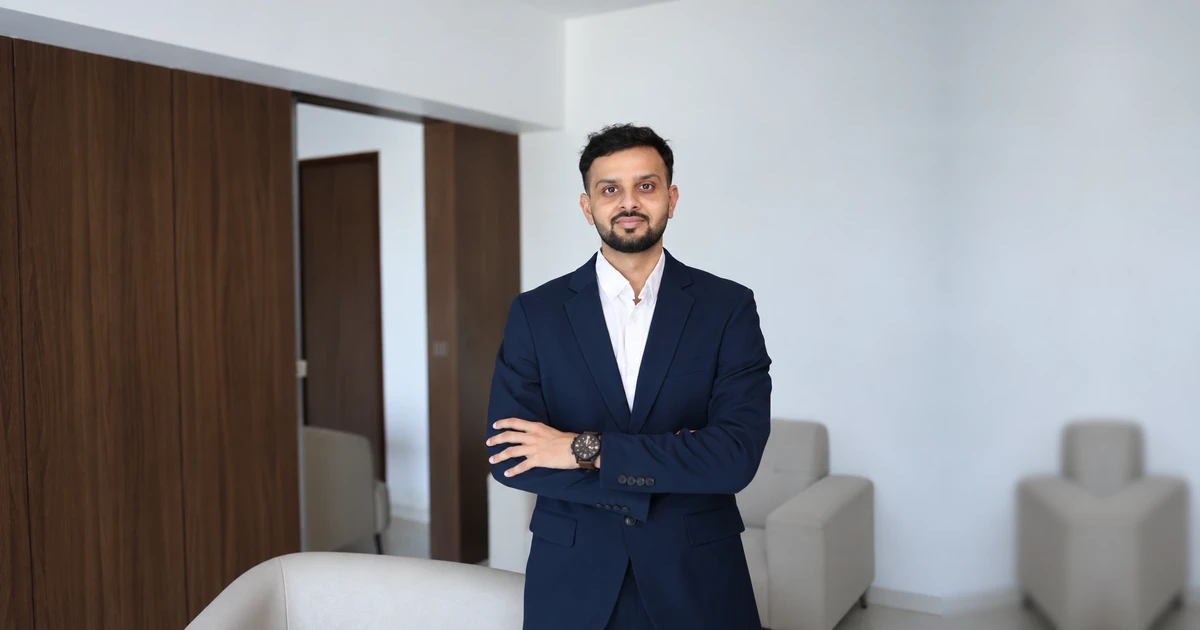
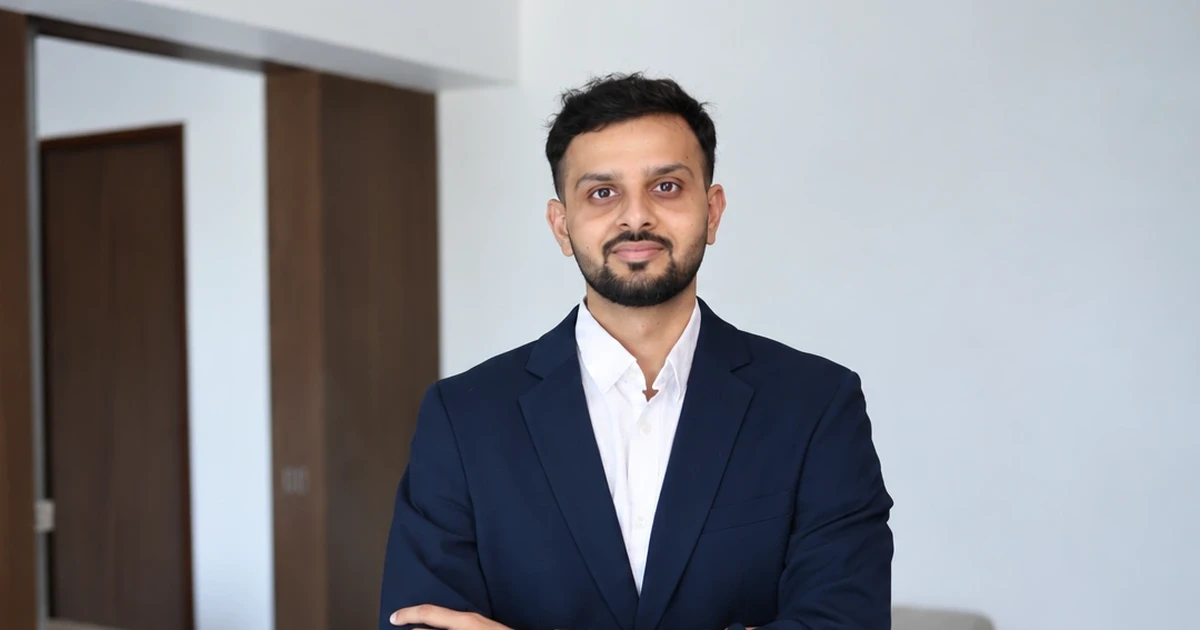
fix(seo): zoom and center og-image without duplication, cap title at 54 chars

diff --git a/apps/admin/src/lib/site.ts b/apps/admin/src/lib/site.ts
@@ -3,7 +3,7 @@ import type { Metadata } from "next";
 export const SITE = {
   name: "Sagar Lad",
   url: (process.env.NEXT_PUBLIC_SITE_URL ?? process.env.SITE_URL ?? "https://sagarlad.com").trim().replace(/\/$/, ""),
-  title: "Sagar Lad — Author, Keynote Speaker & Data & AI Architect",
+  title: "Sagar Lad — Author, Speaker & Human Potential Advocate",
   description:
     "Official website of Sagar Lad — Published Author of 6+ books, TEDx Speaker.",
   ogImage: "/images/og-image.jpg",
@@ -24,7 +24,12 @@ export function pageMetadata({
   ogImage?: string;
 }): Metadata {
   const url = `${SITE.url}${path}`;
-  const fullTitle = title === SITE.name ? SITE.title : `${title} — ${SITE.name}`;
+  const fullTitle =
+    title === SITE.name
+      ? SITE.title
+      : title.includes(SITE.name)
+      ? title
+      : `${title} — ${SITE.name}`;
   return {
     title: fullTitle,
     description,

diff --git a/apps/site/src/lib/site.ts b/apps/site/src/lib/site.ts
@@ -28,7 +28,12 @@ export function pageMetadata({
   ogImage?: string;
 }): Metadata {
   const url = `${SITE.url}${path}`;
-  const fullTitle = title === SITE.name ? SITE.title : `${title} — ${SITE.name}`;
+  const fullTitle =
+    title === SITE.name
+      ? SITE.title
+      : title.includes(SITE.name)
+      ? title
+      : `${title} — ${SITE.name}`;
   const resolvedOgImage = ogImage.startsWith("http")
     ? ogImage
     : `${SITE.url}${ogImage.startsWith("/") ? "" : "/"}${ogImage}`;
